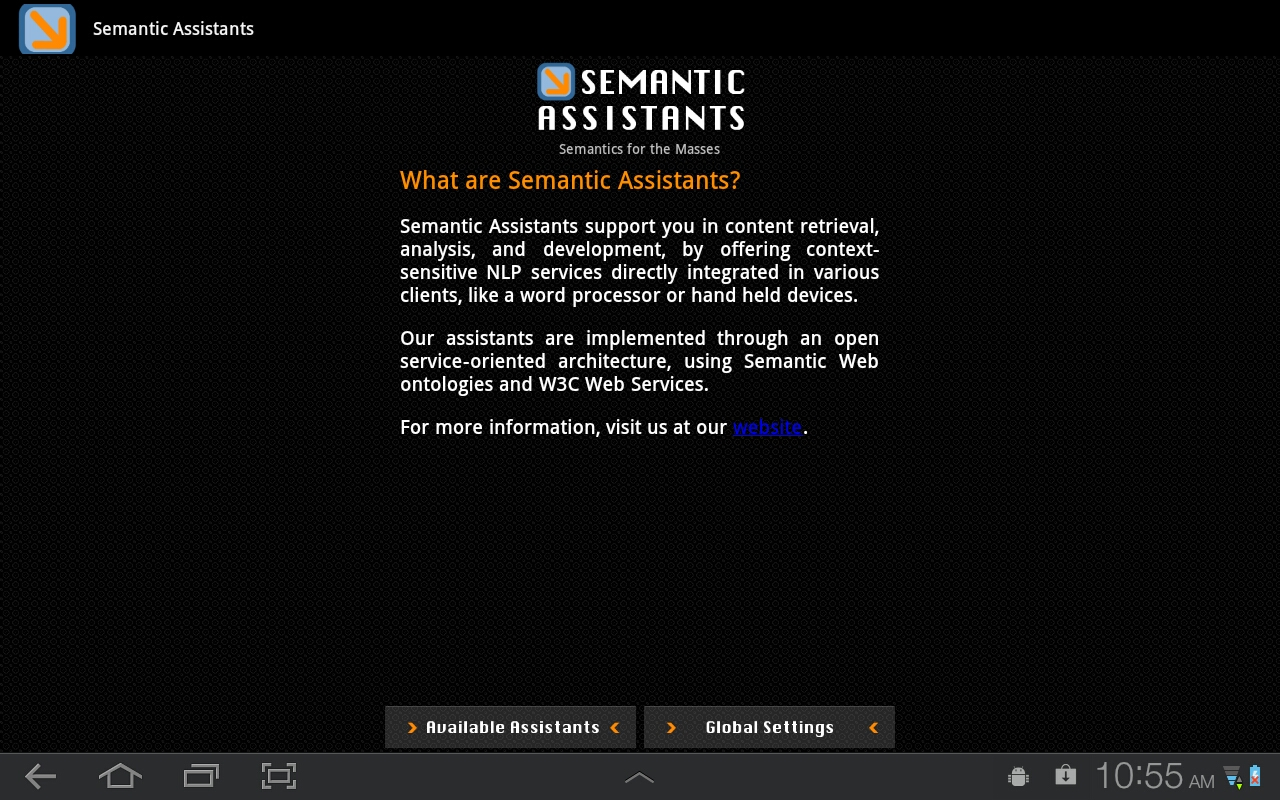
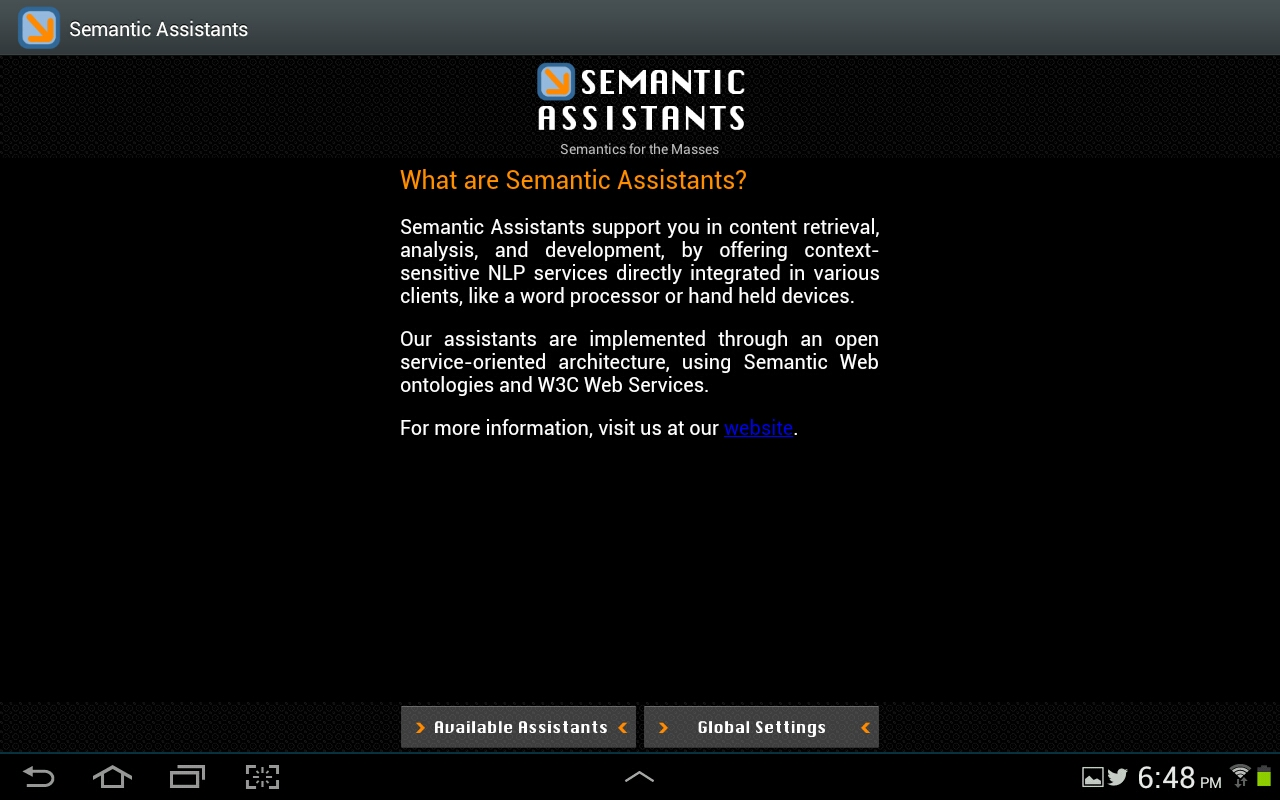
Updated screenshots, added installations details #369

diff --git a/trunk/Doc/semassist_android.tex b/trunk/Doc/semassist_android.tex
@@ -24,14 +24,14 @@ In the following sections, we describe the \sa App features and provide a guide 
 \section{Features}
 The user interface shown in Figure~\ref{fig:android_main} is the \sa main activity (user interface). This means that once the app is installed on the device, this is the main entry to the application. It allows users to connect to a specific \sa server and invoke an assistant on the provided text input.
 
-\begin{figure}[htb]
+\begin{figure}
 \centering
 \includegraphics[scale=0.35]{pictures/android_main.jpg}
 \caption{\sa Android App Main Activity}
 \label{fig:android_main}
 \end{figure}
 \subsection{\sa Account}
-Each android-enabled device has at least one built-in account type, i.e., the Google account. Android is designed in such a way that the same account can be registered to a variety of account-based services. For example, the Gmail account that is set up on the Android device is not just used for e-mailing , but for all the Google account-based applications. The same concept applies to the \sa App that uses the \emph{\sa account} type for its applications. Just like another accounts, you first need to sign up for a \sa Account before using the application.
+Each android-enabled device has at least one built-in account type, i.e., the Google account. Android is designed in such a way that the same account can be registered to a variety of account-based services. For example, the Gmail account that is set up on the Android device is not just used for e-mailing , but for all the Google account-based applications, like Picasa. The same concept applies to the \sa App that uses the \emph{\sa account} type for its applications. Just like another accounts, you first need to sign up for a \sa Account before using the application.
 
 Once you have obtained your credentials, on your device browse to \texttt{Settings $\rightarrow$ Accounts and Sync $\rightarrow$ Add Account} and choose the ``\sa'' option from the list. In the provided user interface, type in your \sa accounts credentials and press \texttt{Sign in}. If authenticated successfully, your \sa account will appear in the list of your device accounts.
 
@@ -43,16 +43,16 @@ Once you have obtained your credentials, on your device browse to \texttt{Settin
 \label{sec:android_global_settings}
 Similar to other \sa clients, the \sa App allows users to connect to various arbitrary servers to inquire about their available assistants. On the \sa App main activity, press the \texttt{Global Settings} button. The application settings activity will pop up that allows you to define a new server location or choose one from a list of available servers as shown in Figure~\ref{fig:android_global_settings}.
 
-\begin{figure}[htb]
+\begin{figure}
 \centering
 \includegraphics[scale=0.35]{pictures/android_global_settings.jpg}
 \caption{\sa App Global Settings Activity}
 \label{fig:android_global_settings}
 \end{figure}
 
-In order to add a new server location, click on the \texttt{Add a new server} option and type in the server URL by concatenating the server address, including its protocol and port number, like in Figure~\ref{fig:android_new_server}. In order to choose the newly defined server, choose the \texttt{Select a server} option from the Global Settings activity and select it from the list.
+In order to add a new server location, click on the \texttt{Add a new server} option and type in the server URL including its protocol, as well as the port number, like in Figure~\ref{fig:android_new_server}. In order to choose the newly defined server, choose the \texttt{Select a server} option from the \texttt{Global Settings} activity and select it from the list.
 
-\begin{figure}[htb]
+\begin{figure}[b]
 \centering
 \includegraphics[scale=0.5]{pictures/android_new_server.jpg}
 \caption{Adding a new server to the \sa App settings}
@@ -60,7 +60,7 @@ In order to add a new server location, click on the \texttt{Add a new server} op
 \end{figure}
 
 \subsection{NLP Service Invocation}
-Once the \sa server is selected from the Global Settings activity, users can inquire about its available assistants. From the \sa App main activity, press the \texttt{Available Assistants} button to open the service invocation activity. This activity, as shown in Figure~\ref{fig:android_invoke_main}, presents the list of available assistants and an input text area for the text to be analyzed. By selecting each assistants from the list, the app will provide detailed information of what the assistant does and allows to customize the pipeline execution through providing runtime parameters.
+Once the \sa server is selected from the Global Settings activity, users can inquire about its available assistants. From the \sa App main activity, press the \texttt{Available Assistants} button to open the service invocation activity. This activity, as shown in Figure~\ref{fig:android_invoke_main}, presents the list of available assistants and an input text area for the text to be analyzed. By selecting each assistant from the list, the app will provide detailed information of what the assistant does and allows you to customize the pipeline execution through modifying the runtime parameters.
 
 \begin{figure}[htb]
 \centering
@@ -71,20 +71,33 @@ Once the \sa server is selected from the Global Settings activity, users can inq
 
 Users have three options on how to provide a pipeline with text input:
 \begin{itemize}
-\item{\textbf{Manually typing in the text. }}{Using the device keyboard, type in the text that is to be analyzed.}
-\item{\textbf{Sharing text with the \sa from other apps. }}{The \sa App listens for sharing event in the Android platform. This means that from within applications that provide a sharing mechanism, the selected text can be directly placed into the \sa Apps activity input.}
-\item{\textbf{Sending input to the \sa service. }}{As we will explain more in Section \ref{sec:android_service}, the text input can be sent via a service argument (extra). The difference between this option and the previous bullet is that in the sharing option, the \sa App takes care of the result handling instead of the invoking application. Also in this service invocations, the NLP service to be executed is pre-defined and cannot be changed at a later stage.}
+\item{\textbf{Manually typing in the text. }}{Using the device keyboard, type in the text that is to be analyzed, then invoke the desired assistant from the list.}
+\item{\textbf{Sharing text with the \sa from other apps. }}{The \sa App listens for sharing event in the Android platform. This means that from within applications that provide a sharing mechanism, the selected text can be directly placed into the \sa Apps activity input.
+
+In this option, copy the text you would like to analyze and choose the \texttt{Share} item from the contextual menu of the system. Then select the \texttt{Semantic Assistants} as the recipient of the shared text.}
+\item{\textbf{Sending input to the \sa service. }}{As we will explain more in Section \ref{sec:android_service}, the text input can be sent via a service argument (i.e., an Android \texttt{Extra} object). The difference between this option and the previous bullet is that in the sharing option, the \sa App takes care of the result handling instead of the application that originally requested the service. Also in this service invocation option, the NLP service to be executed is pre-defined (by the requesting app) and cannot be changed at a later stage.}
 \end{itemize}
-Once done with typing, select an assistants from the left-side list and press the \texttt{Invoke} button. Depending on the type of the results, you would either see the annotations in a new activity or the resulting file will be opened in the device browser.
+Once you selected the text for analysis, select an assistants from the left-side list and press the \texttt{Invoke} button to start the service execution. Depending on the type of the results, you would either see the annotations in a new activity or the resulting file will be opened in the device browser.
 
 \section{Installation}
-TBD
+The \sa app can be installed directly on your Android device through the Google Play store\footnote{Google Play Store~\url{https://play.google.com/store}} website. Browse to \url{https://play.google.com/store/apps/details?id=info.semanticsoftware.semassist.android} and press the ``Install'' button to download the app on to your device.
+
+Alternatively, you can download the signed \texttt{.apk} file from our public repository and copy it to your device, e.g. on your SD card. Then open the file in your device's file browser; the system will prompt you to install the app.
 
 \section{\sa App Service}
 \label{sec:android_service}
-As mentioned earlier, the \sa App also plays the role of a system-wide service provider, meaning that other external applications can use the \sa App's functionality. This is done through using Android services, i.e., application components that can perform long-running operations in the background. Each available service in the \sa App has a unique name that should be indicated when the external application invokes the service.
+As mentioned earlier, the \sa App also plays the role of a system-wide service provider, meaning that other external applications can use the \sa App's functionalities in their workflow. This is done through using Android \emph{services}, i.e., application components that can perform long-running operations in the background. Each available service in the \sa App has a unique name that should be indicated when the external application invokes the service.
 
-To better demonstrate this feature, we will illustrate a demo app that uses a \sa service. The demo in example, called iForgotWho, is an app that helps users to find potential ``contacts'' from a given text and upon user accept, automatically adds them to the device contact book. However, the iForgotWho app does not find the contacts by itself, rather it uses the \sa App's \texttt{person\_extractor} service. For this, the iForgotWho needs to (1) invoke the service using its complete identifier (available in the \sa App manifest file), (2) send along the text to be analyzed, and (3) indicate whether the \sa App should present the results or iForgotWho takes care of it. Once all the data is provided to the \sa App, the NLP service is executed and the results are passed back to iForgotWho app. Then, iForgotWho presented the list of all the person entities found in the text to the user, whom which ultimately decide whether they should be added to the device contact book. Figure~\ref{fig:android_service} illustrates this sequence.
+To better demonstrate this feature, we will illustrate a demo app that uses a \sa service. The demo in example, called iForgotWho, is an app that helps users to find potential \emph{contacts} from a given text and upon the user's acceptance, automatically adds them to the device's contact book. 
+
+However, the iForgotWho app does not find the contacts by itself, rather it uses the \sa App's \texttt{person\_extractor} service. For this, the iForgotWho needs to:
+\begin{enumerate}
+\item invoke the \texttt{person\_extractor} service using its complete identifier (available in the \sa App manifest file);
+\item send along the text to be analyzed; and
+\item indicate whether the \sa App should present the results or the application itself will tak care of it, by initializing the \texttt{SILENT\_MODE} argument when making the service call.
+\end{enumerate}
+
+Once all the data is provided to the \sa App, the NLP service is executed and the results are passed back to iForgotWho app. Then, iForgotWho presents the list of all the person entities found in the text to the user, whom which ultimately decides whether they should be added to the contact book. 
 
 \section{Development Notes}
 In this section, we provide technical notes about the \sa App and how external Android application developers can integrate NLP capabilities in their apps using the \sa services.

diff --git a/trunk/Doc/semassist.tex b/trunk/Doc/semassist.tex
@@ -214,8 +214,8 @@ the distribution files or the Jena\footnote{Jena License and
 \input{semassist_wiki}
 \input{semassist_liferay}
 
-%\part{SA Embedded \& Mobile}
-%\input{semassist_android}
+\part{SA Embedded \& Mobile}
+\input{semassist_android}
 
 \part{SA Server}
 \input{semassist_server}
